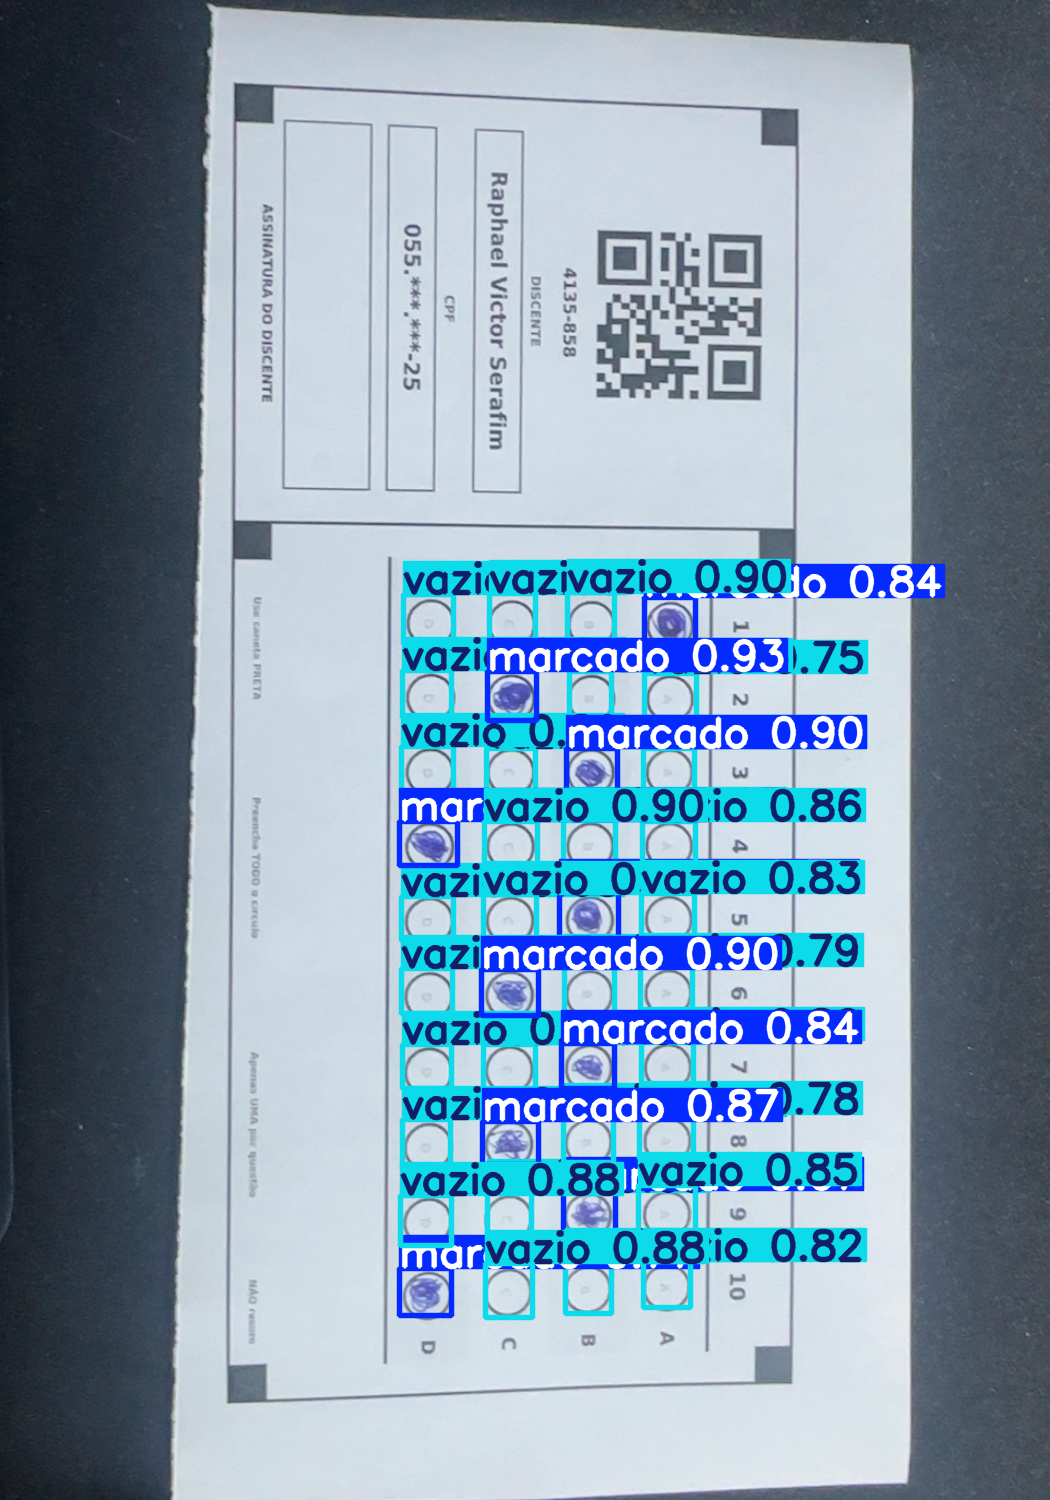
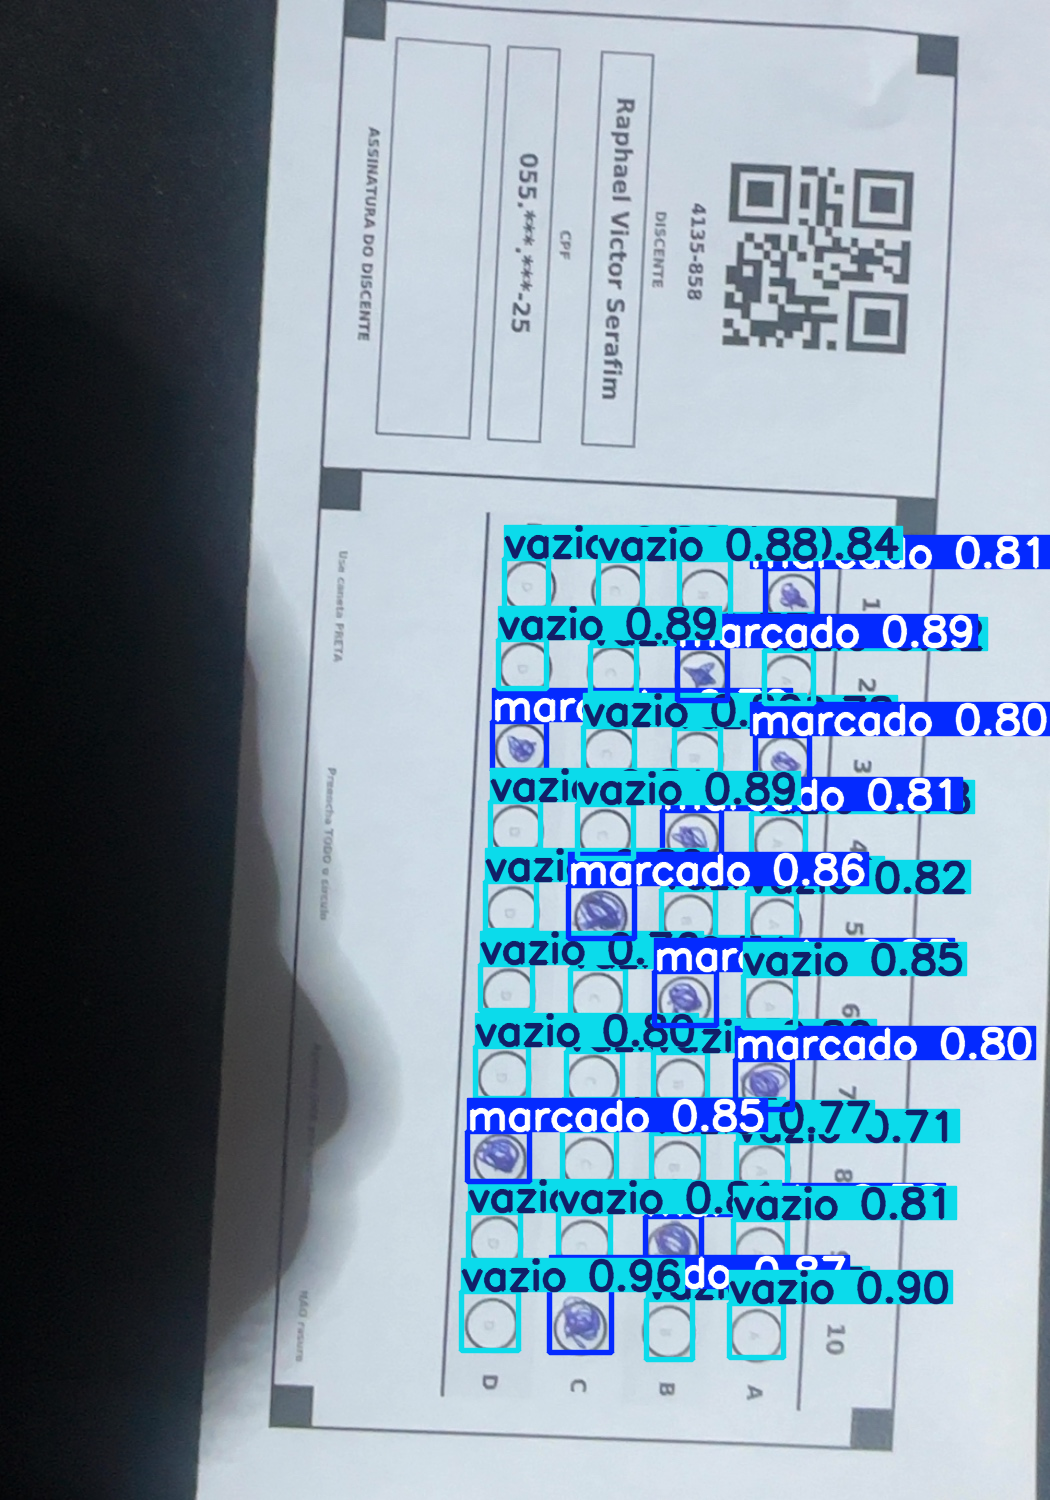
feat: gabarito processing with QR code detection

diff --git a/run.py b/run.py
@@ -1,54 +1,80 @@
 from ultralytics import YOLO
 import cv2
-import json
 
-# 1. Carrega o modelo
+# 1. Carrega o modelo de bolinhas
 model = YOLO('runs/detect/train2/weights/best.pt')
 
-# 2. Roda a detecção (max_det=40 para pegar todas as bolinhas)
-img_path = 'prateste.png'
-results = model.predict(source=img_path, conf=0.3, max_det=40)
-
-deteccoes = []
-for r in results:
-    # Salva imagem para conferência visual
-    cv2.imwrite('conferencia_final.png', r.plot())
-    for box in r.boxes:
-        x, y, w, h = box.xywh[0].tolist()
-        cls = int(box.cls[0]) # 0: marcado, 1: vazio
-        deteccoes.append({'x': x, 'y': y, 'classe': cls})
-
-# Verifica se o modelo encontrou as 40 bolinhas
-if len(deteccoes) != 40:
-    print(f"⚠ Aviso: Foram detectadas {len(deteccoes)} bolinhas. O resultado pode falhar.")
-
-# 3. Ordenar por Y (cima para baixo) para separar as linhas das questões
-deteccoes_ordenadas = sorted(deteccoes, key=lambda d: d['y'])
-
-# 4. Processar o Gabarito
-letras = ['D', 'C', 'B', 'A'] # Ordem da esquerda para a direita na foto
-gabarito_objeto = {}
-
-# Loop de 4 em 4 bolinhas (10 questões)
-for i in range(0, len(deteccoes_ordenadas), 4):
-    questao_num = (i // 4) + 1
-    # Pega o bloco de 4 bolinhas da questão atual
-    grupo_questao = deteccoes_ordenadas[i:i+4]
+def processar_gabarito_inteligente(img_path):
+    img = cv2.imread(img_path)
     
-    # Ordena as 4 bolinhas por X (esquerda para direita) para saber qual é D, C, B, A
-    grupo_ordenado_x = sorted(grupo_questao, key=lambda d: d['x'])
+    # --- DETECTAR ORIENTAÇÃO PELO QR CODE ---
+    qr_detector = cv2.QRCodeDetector()
+    # Achamos o QR Code
+    ok, points = qr_detector.detect(img)
     
-    # Filtra apenas as que o modelo disse que estão MARCADAS (classe 0)
-    marcadas = [idx for idx, b in enumerate(grupo_ordenado_x) if b['classe'] == 0]
+    # Valor padrão: assume que o papel está de pé
+    esta_invertido = False
     
-    # LÓGICA DE VALIDAÇÃO:
-    # Se houver EXATAMENTE uma marcada, pegamos a letra.
-    # Se houver 0 ou mais de 1, definimos como None (null).
-    if len(marcadas) == 1:
-        gabarito_objeto[questao_num] = letras[marcadas[0]]
+    if ok and points is not None:
+        # Pega o centro Y do QR Code
+        qr_y = np.mean(points[0][:, 1])
+        altura_img = img.shape[0]
+        
+        # Se o QR Code estiver na metade de baixo da imagem, está invertido
+        if qr_y > (altura_img / 2):
+            esta_invertido = True
+            print("🔄 Papel detectado de cabeça para baixo. Corrigindo...")
+        else:
+            print("⬆ Papel detectado na posição correta.")
     else:
-        gabarito_objeto[questao_num] = None
+        print("⚠ QR Code não encontrado. Usando orientação padrão (em pé).")
 
-# 5. Resultado Final
-print(gabarito_objeto)
- 
+    # 2. Rodar a detecção do YOLO
+    results = model.predict(source=img, conf=0.3, max_det=40)
+    
+    deteccoes = []
+    for r in results:
+        for box in r.boxes:
+            x, y, w, h = box.xywh[0].tolist()
+            cls = int(box.cls[0])
+            deteccoes.append({'x': x, 'y': y, 'classe': cls})
+
+    if len(deteccoes) != 40:
+        return f"Erro: Detectadas {len(deteccoes)} bolinhas. Tire a foto novamente."
+
+    # 3. Ordenar por Y (Cima para Baixo)
+    # Se estiver invertido, a Q10 estará no topo, então invertemos a ordem
+    deteccoes_ordenadas = sorted(deteccoes, key=lambda d: d['y'])
+    if esta_invertido:
+        deteccoes_ordenadas.reverse()
+
+    # 4. Definir Letras
+    # Se estiver de pé: Esquerda -> Direita é D, C, B, A
+    # Se estiver invertido: Esquerda -> Direita é A, B, C, D
+    if not esta_invertido:
+        letras = ['D', 'C', 'B', 'A']
+    else:
+        letras = ['A', 'B', 'C', 'D']
+
+    gabarito_objeto = {}
+
+    for i in range(0, len(deteccoes_ordenadas), 4):
+        questao_num = (i // 4) + 1
+        grupo_questao = deteccoes_ordenadas[i:i+4]
+        
+        # Ordena as 4 por X (Esquerda para Direita)
+        grupo_ordenado_x = sorted(grupo_questao, key=lambda d: d['x'])
+        
+        marcadas = [idx for idx, b in enumerate(grupo_ordenado_x) if b['classe'] == 0]
+        
+        if len(marcadas) == 1:
+            gabarito_objeto[questao_num] = letras[marcadas[0]]
+        else:
+            gabarito_objeto[questao_num] = None
+
+    return gabarito_objeto
+
+# Testar
+import numpy as np
+print(processar_gabarito_inteligente('duplicadovirada.png'))
+print(processar_gabarito_inteligente('duplicado.png'))
